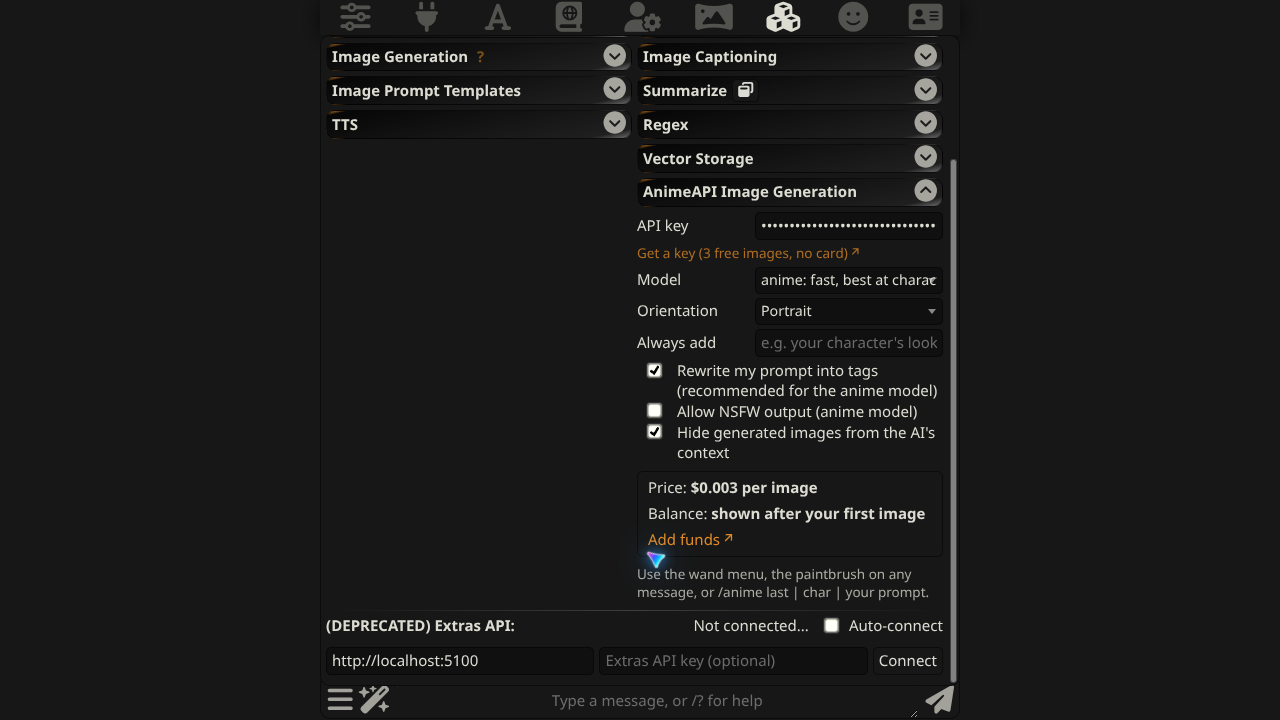
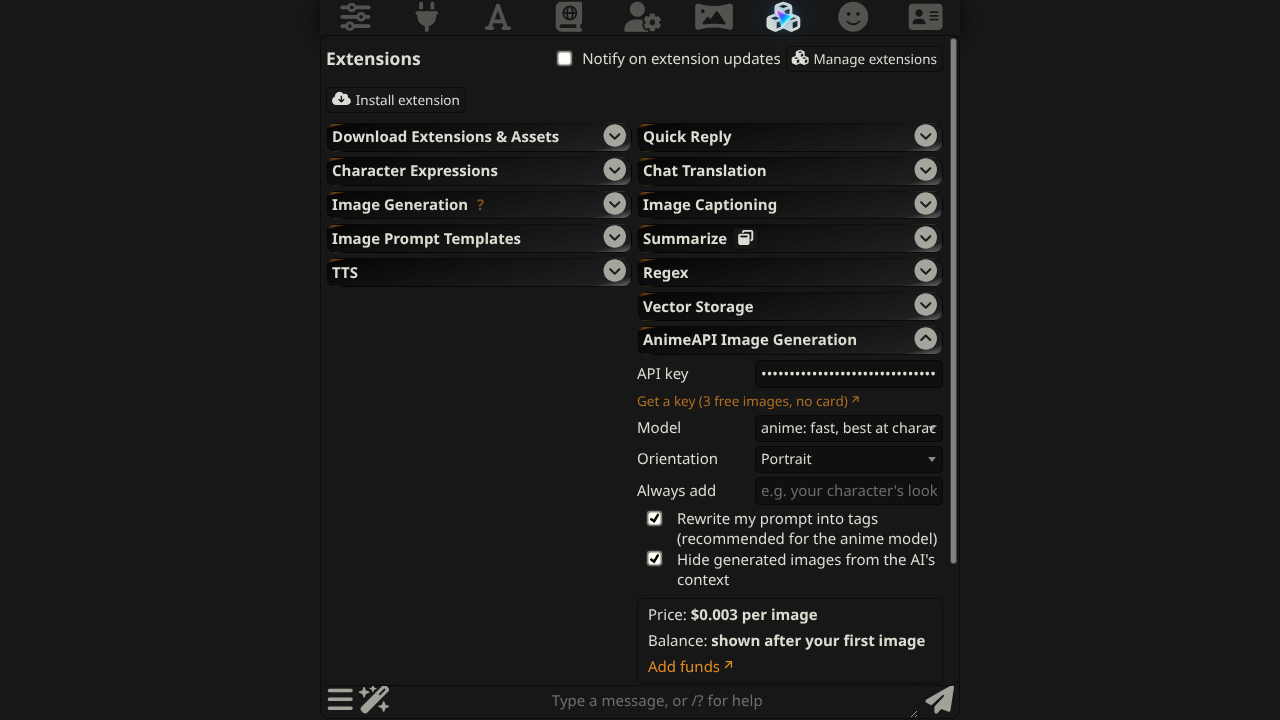
Remove the adult-output option: AnimeAPI does not generate adult content
The API ignores allowNSFW / allow_nsfw (deprecated) and refuses explicit
prompts with 400 MODERATION_BLOCKED, uncharged. This integration no longer
offers or sends the option, and the README says so.

diff --git a/index.js b/index.js
@@ -25,7 +25,6 @@ const defaultSettings = Object.freeze({
     model: 'anime',
     orientation: 'portrait',
     enhance: true,
-    allow_nsfw: true,
     prefix: '',
     hide_from_ai: true,
     last_balance: null,
@@ -47,7 +46,6 @@ const STRINGS = {
         model_ultra: 'ultra: follows long sentences, renders text',
         model_ultra_max: 'ultra-max: ultra with finer detail',
         enhance: 'Rewrite my prompt into tags (recommended for the anime model)',
-        allow_nsfw: 'Allow NSFW output (anime model)',
         hide_from_ai: 'Hide generated images from the AI\'s context',
         prefix: 'Always add',
         prefix_placeholder: 'e.g. your character\'s look: silver hair, red eyes, black coat',
@@ -92,7 +90,6 @@ const STRINGS = {
         model_ultra: 'ultra：理解长句，可渲染文字',
         model_ultra_max: 'ultra-max：细节更精致的 ultra',
         enhance: '自动把提示词改写为标签（anime 模型推荐）',
-        allow_nsfw: '允许 NSFW 输出（anime 模型）',
         hide_from_ai: '生成的图片不计入 AI 上下文',
         prefix: '固定附加',
         prefix_placeholder: '例如角色外貌：银发、红瞳、黑色外套',
@@ -137,7 +134,6 @@ const STRINGS = {
         model_ultra: 'ultra：長文に強く、文字も描ける',
         model_ultra_max: 'ultra-max：より精細な ultra',
         enhance: 'プロンプトをタグに自動変換（anime モデル推奨）',
-        allow_nsfw: 'NSFW 出力を許可（anime モデル）',
         hide_from_ai: '生成画像を AI のコンテキストに含めない',
         prefix: '常に追加',
         prefix_placeholder: '例：キャラの外見（銀髪、赤い瞳、黒いコート）',
@@ -237,7 +233,6 @@ async function callAnimeApi({ prompt, model, orientation }) {
         model,
         orientation,
         enhance: !!settings.enhance,
-        allowNSFW: !!settings.allow_nsfw,
     });
 
     for (let attempt = 1; ; attempt++) {
@@ -540,7 +535,6 @@ function addSettingsPanel() {
                     <input id="animeapi_prefix" class="text_pole" type="text" maxlength="300" placeholder="${esc(s('prefix_placeholder'))}">
                 </div>
                 <label class="checkbox_label" for="animeapi_enhance"><input id="animeapi_enhance" type="checkbox"><span>${esc(s('enhance'))}</span></label>
-                <label class="checkbox_label" for="animeapi_nsfw"><input id="animeapi_nsfw" type="checkbox"><span>${esc(s('allow_nsfw'))}</span></label>
                 <label class="checkbox_label" for="animeapi_hide"><input id="animeapi_hide" type="checkbox"><span>${esc(s('hide_from_ai'))}</span></label>
                 <div class="animeapi_status">
                     <span>${esc(s('price'))}: <b id="animeapi_price"></b></span>
@@ -573,10 +567,6 @@ function addSettingsPanel() {
     });
     $('#animeapi_enhance').prop('checked', settings.enhance).on('change', function () {
         settings.enhance = !!$(this).prop('checked');
-        saveSettings();
-    });
-    $('#animeapi_nsfw').prop('checked', settings.allow_nsfw).on('change', function () {
-        settings.allow_nsfw = !!$(this).prop('checked');
         saveSettings();
     });
     $('#animeapi_hide').prop('checked', settings.hide_from_ai).on('change', function () {

diff --git a/README.ja.md b/README.ja.md
@@ -57,10 +57,11 @@ SillyTavern 1.12.6 以降が必要です。1.19.0 で動作確認済み。
 | 向き | 縦長 | 縦長・正方形・横長、価格は同じ |
 | 常に追加 | 空 | すべてのプロンプトに追加する文字列（例：キャラの外見） |
 | タグに自動変換 | オン | AnimeAPI が文章を anime モデル用のタグに書き換えます |
-| NSFW 出力を許可 | オン | AnimeAPI 自体の既定値です。オフにすると、該当画像は拒否され返金されます。anime モデルのみ |
 | 生成画像を AI のコンテキストに含めない | オン | 画像メッセージはチャットモデルに送信されません |
 
 チャット本文は Markdown を除去し、AnimeAPI の上限 1,000 文字に切り詰めます。
+
+AnimeAPI は成人向けコンテンツを生成しません。露骨なプロンプトは拒否され、課金されません。
 
 ## 表示されるエラー
 
@@ -68,7 +69,7 @@ SillyTavern 1.12.6 以降が必要です。1.19.0 で動作確認済み。
 | --- | --- |
 | AnimeAPI の残高がありません | <https://animeapi.ai/dashboard/billing> でチャージ（$5 から） |
 | AnimeAPI がこのキーを受け付けませんでした | <https://animeapi.ai/dashboard/api-keys> でキーを確認 |
-| 画像が拒否されました：… | モデルがこのプロンプトを拒否しました。理由が表示され、課金されません |
+| 画像が拒否されました：… | AnimeAPI がこのプロンプトを拒否しました。示された理由が表示され、課金されません |
 | AnimeAPI が混雑しています | 一時的なものです。数秒後に再試行してください。失敗した画像は返金されます |
 
 ## SillyTavern 標準の画像生成は使えますか？

diff --git a/README.md b/README.md
@@ -59,10 +59,11 @@ The slash command takes optional arguments and returns the saved image path, so 
 | Orientation | Portrait | Portrait, square or landscape; same price |
 | Always add | empty | Text added to every prompt, for example your character's look |
 | Rewrite my prompt into tags | on | AnimeAPI turns plain sentences into tags for the anime model |
-| Allow NSFW output | on | This is AnimeAPI's own default. Turn it off and flagged images are refused and refunded. Applies to the anime model |
 | Hide generated images from the AI's context | on | The image message is not sent to your chat model |
 
 Chat text is cleaned of markdown and cut to AnimeAPI's 1,000-character prompt limit.
+
+AnimeAPI does not generate adult content. Explicit prompts are refused and not charged.
 
 ## Errors you may see
 
@@ -70,7 +71,7 @@ Chat text is cleaned of markdown and cut to AnimeAPI's 1,000-character prompt li
 | --- | --- |
 | Your AnimeAPI balance is empty | Add funds at <https://animeapi.ai/dashboard/billing> (from $5) |
 | AnimeAPI did not accept this key | Check the key at <https://animeapi.ai/dashboard/api-keys> |
-| The image was rejected: … | The model refused this prompt; the reason is shown and you are not charged |
+| The image was rejected: … | AnimeAPI refused this prompt; the reason it gives is shown and you are not charged |
 | AnimeAPI is busy | Temporary; try again in a few seconds. Failed images are refunded |
 
 ## Can I use SillyTavern's built-in Image Generation instead?

diff --git a/README.zh-CN.md b/README.zh-CN.md
@@ -57,10 +57,11 @@
 | 画幅 | 竖图 | 竖图、方图、横图，价格相同 |
 | 固定附加 | 空 | 附加到每条提示词的文字，例如角色外貌 |
 | 自动改写为标签 | 开 | AnimeAPI 会把自然语言改写成 anime 模型使用的标签 |
-| 允许 NSFW 输出 | 开 | 这是 AnimeAPI 自身的默认值。关闭后，被标记的图片会被拒绝并退款。仅对 anime 模型生效 |
 | 生成的图片不计入 AI 上下文 | 开 | 图片消息不会发送给聊天模型 |
 
 聊天文本会去除 Markdown 并截断到 AnimeAPI 的 1000 字符上限。
+
+AnimeAPI 不生成成人内容。露骨的提示词会被拒绝，且不收费。
 
 ## 常见提示
 
@@ -68,7 +69,7 @@
 | --- | --- |
 | 你的 AnimeAPI 余额不足 | 在 <https://animeapi.ai/dashboard/billing> 充值（$5 起） |
 | AnimeAPI 未接受该密钥 | 在 <https://animeapi.ai/dashboard/api-keys> 检查密钥 |
-| 图片被拒绝：… | 模型拒绝了该提示词；会显示原因，且不扣费 |
+| 图片被拒绝：… | AnimeAPI 拒绝了该提示词；会显示其给出的原因，且不扣费 |
 | AnimeAPI 繁忙 | 临时情况，稍后重试。失败的图片会退款 |
 
 ## 能否直接用 SillyTavern 自带的图片生成？
